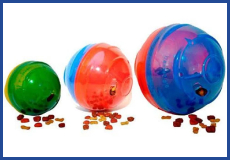
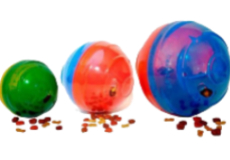
fix(borda das imagens)

diff --git a/pages/index.js b/pages/index.js
@@ -42,7 +42,7 @@ export default function Home(props) {
             href={`/produto/${product.slug}`}
             passHref
           >
-            <Link sx={[classes.flex, classes.center]}>
+            <Link sx={[classes.flex, classes.center, classes.border]}>
               <Image
                 src={product.featuredImage}
                 alt={product.name}

diff --git a/utils/classes.js b/utils/classes.js
@@ -94,6 +94,10 @@ const classes = {
   center: {
     justifyContent: 'center',
   },
+  border: {
+    border: '5px solid blue',
+    borderRadius: '5px',
+  },
 };
 
 export default classes;
